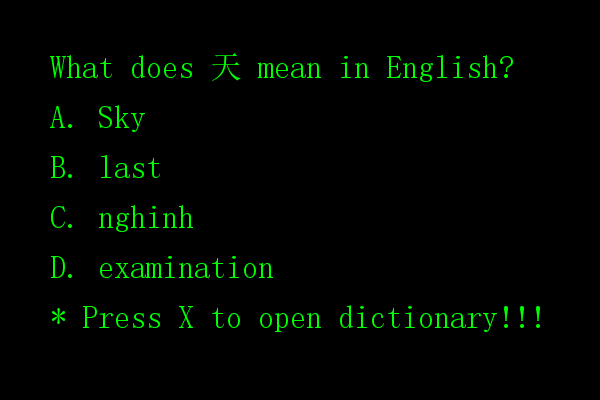
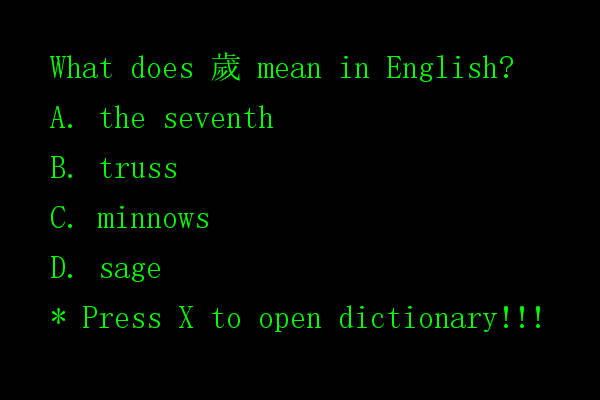
update

diff --git a/src/pikalong.py b/src/pikalong.py
@@ -187,15 +187,14 @@ def AskQuestion():
 	# screen.blit(question, (200, 200))
 	return (question, pos)
 	
-
 def QuitGame():
 	pygame.quit()
 	quit()
 
 data = god.data
 
+
 knowledge = data[0:3]
-# letters = {"text": '\u7684'}
 
 def get_new_word():
 	god.addWord(knowledge)
@@ -226,14 +225,17 @@ def end_screen():
 		base.render()
 		pikalong.render()
 		text = END_FONT.render("Press SPACE to restart!!!", True, (255, 0, 0))
+		highest_score_text = GEN_FONT.render("HIGHEST SCORE: " + str(HIGHEST_SCORE), 1, (0, 0, 255))
 		screen.blit(text, (125, 300))
+		screen.blit(highest_score_text, (525, 30))
 		pygame.display.update()
-
 
 def main():
 	global HIGHEST_SCORE
-
+	global knowledge
 	# reset
+	startIdx = random.randint(0, 200)
+	knowledge = data[startIdx: startIdx + 3]
 	asking = None
 	DictOpen = False
 	DictRender = False
@@ -262,6 +264,8 @@ def main():
 					print(event.key)
 					if event.key == 27: # ESC press
 						QuitGame()
+					elif event.key == pygame.K_SPACE:
+						continue
 					elif event.key == 120: # press X
 						render_dictionary()
 						time.sleep(2)
@@ -348,8 +352,7 @@ def main():
 						addword = True
 						Mr_Kien.finish = True
 				if len(Mr_Kiens) == 0:
-					Mr_Kiens.append(Police(MrKien_image, SCREEN_WIDTH, 400))
-
+					Mr_Kiens.append(Police(MrKien_image, SCREEN_WIDTH, 425))
 
 				# render characters
 				screen.blit(highest_score_text, (525, 30))
@@ -370,9 +373,6 @@ def main():
 		if addword:
 			get_new_word()
 		pygame.display.update()	
-
-		# if DictOpen:
-
 
 		# Minh's intelligence
 		while True:
